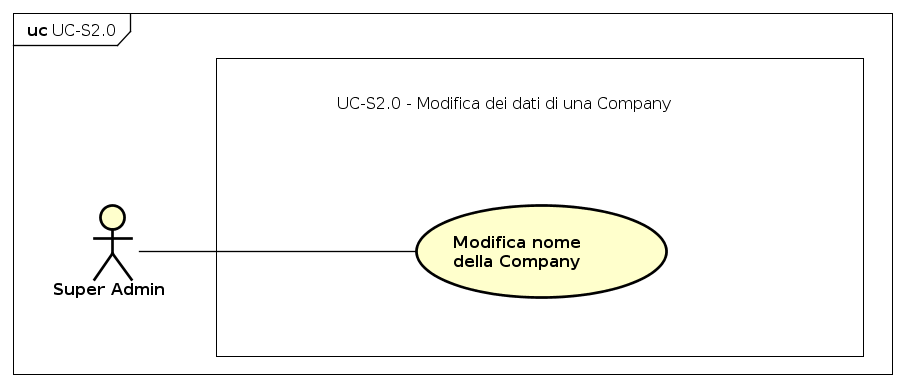
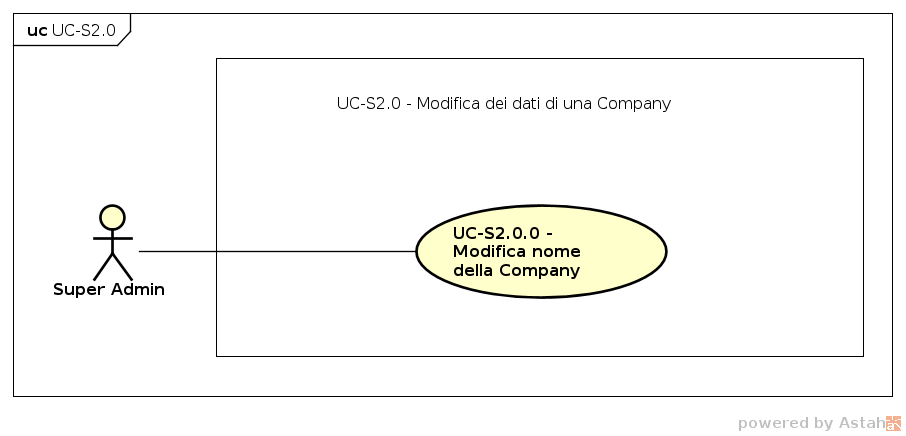
activity #302, issue #311, file /res/sections/superadmin.tex

diff --git a/official/AnalisiDeiRequisiti/res/sections/superadmin.tex b/official/AnalisiDeiRequisiti/res/sections/superadmin.tex
@@ -215,12 +215,37 @@ Di seguito vengono elencati i \glossaryItem{casi} d'uso per il \glossaryItem{Sup
         \textbf{Precondizioni}  & L'applicazione mostra il form per la modifica dei dati della \glossaryItem{Company} selezionata.  \\ 
         
         \textbf{Postcondizioni} & Il sistema ha modificato il profilo della \glossaryItem{Company} sulla base dei dati inseriti dal \glossaryItem{Super-Admin}.  \\ 
+       	 \textbf{Scenario principale} & 1. Il \glossaryItem{Super-Admin} può modificare i dati della \glossaryItem{Company}. \\
+	 \textbf{Estensioni} & 1. Fallimento della modifica.
+      \end{longtable}
+      \egroup
+    \end{center}
+
+%INTERNO: 2.0.0 --> PUBBLICATO
+\subsubsection{Modifica del nome di una Company}
+    %Tabella 
+    \begin{center}
+      \bgroup
+      \def\arraystretch{1.8}
+      \begin{longtable}{  p{3.5cm} | p{8cm} }
+
+        \hline
+        \multicolumn{2}{ | c | }{ \cellcolor[gray]{0.9} \textbf{UC-S2.0.0 - Modifica del nome di una \glossaryItem{Company}}}. \\
+        \hline
+
+        \textbf{Attori Primari} & \glossaryItem{Super-Admin}.\\
+        \textbf{Precondizioni}  & L'applicazione mostra il campo di testo per la modifica del nome della \glossaryItem{Company} selezionata.  \\
+	
+        \textbf{Postcondizioni} & Il sistema ha modificato il nome della \glossaryItem{Company} sulla base del nuovo nome inserito dal \glossaryItem{Super-Admin}.  \\
+    	\textbf{Scenario principale} & 1. Il \glossaryItem{Super-Admin} può modificare il nome della \glossaryItem{Company}. \\
         \textbf{Estensioni} & 1. Fallimento della modifica.
       \end{longtable}
       \egroup
     \end{center}
 
-%INTERNO: 2.0.0 
+
+
+
 
 
 \subsubsection{Aggiunta di un nuovo utente nella Company selezionata}
